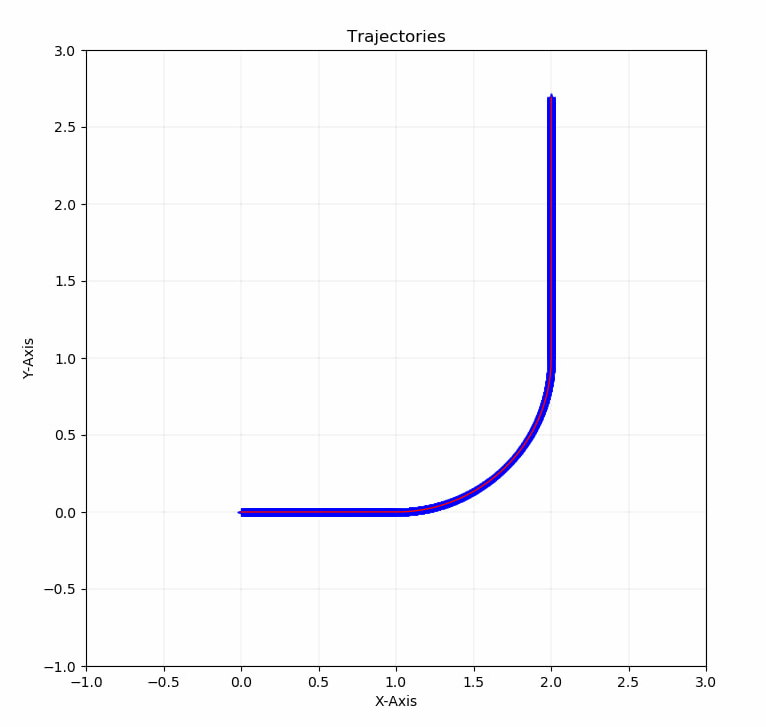
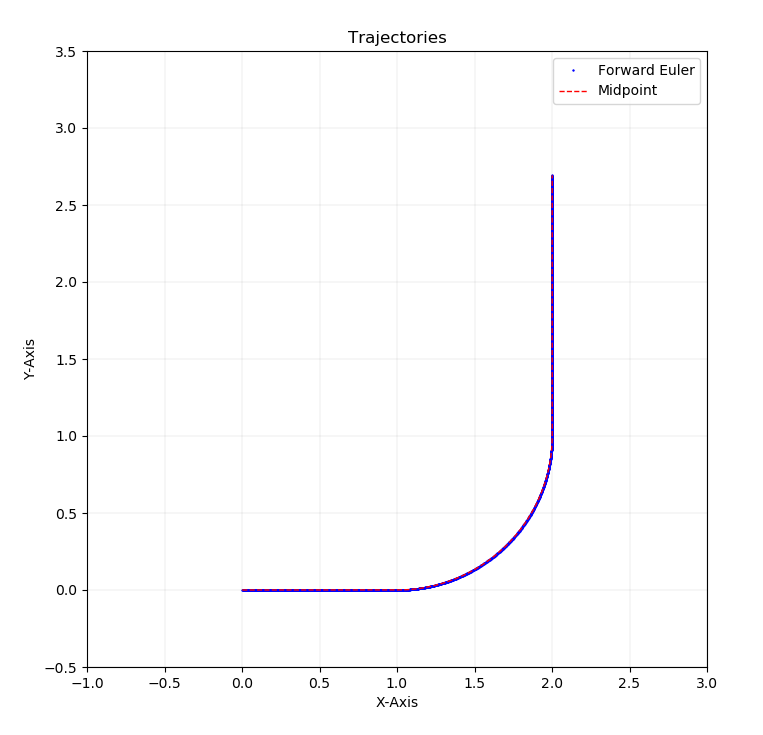
fix the trajectories figure

diff --git a/src/py_server_2/py_server_2/server.py b/src/py_server_2/py_server_2/server.py
@@ -30,9 +30,12 @@ coordinates_midpoint = []
 plt.ion()
 figure, ax = plt.subplots(figsize=(8, 8))
 plt.xlim([-1, 3])
-plt.ylim([-1, 3])
+plt.ylim([-0.5, 3.5])
 plt.grid(color='grey', linestyle='-', linewidth=0.1)
-line1, line2 = ax.plot(0, 0, 'b+', 0, 0, 'r', linewidth=1)
+# line1, line2 = ax.plot(0, 0, 'b+', 0, 0, 'r--', linewidth=1)
+line1, = ax.plot(0, 0, 'b+', markersize=2, label="Forward Euler")
+line2, = ax.plot(0, 0, 'r--', linewidth=1, label="Midpoint")
+ax.legend()
 plt.title("Trajectories")
 plt.xlabel("X-Axis")
 plt.ylabel("Y-Axis")
